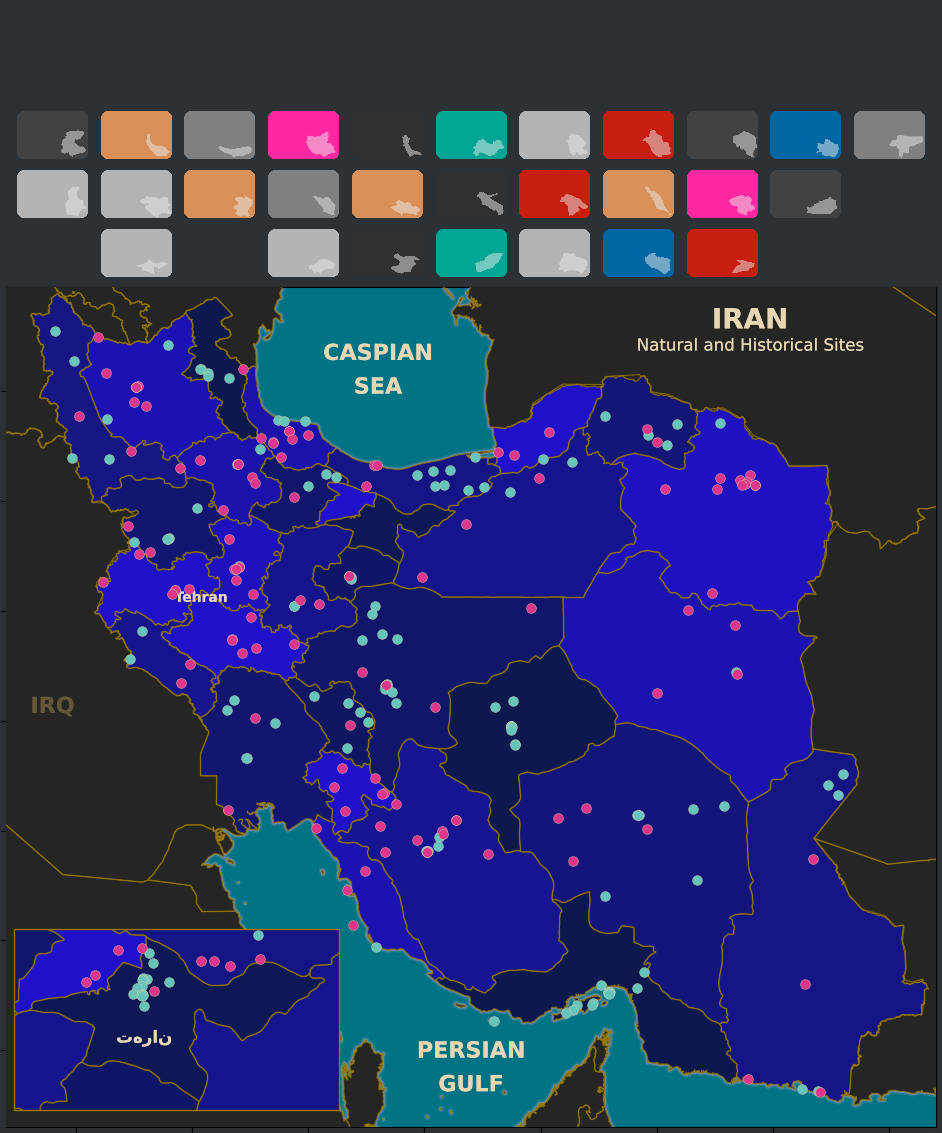
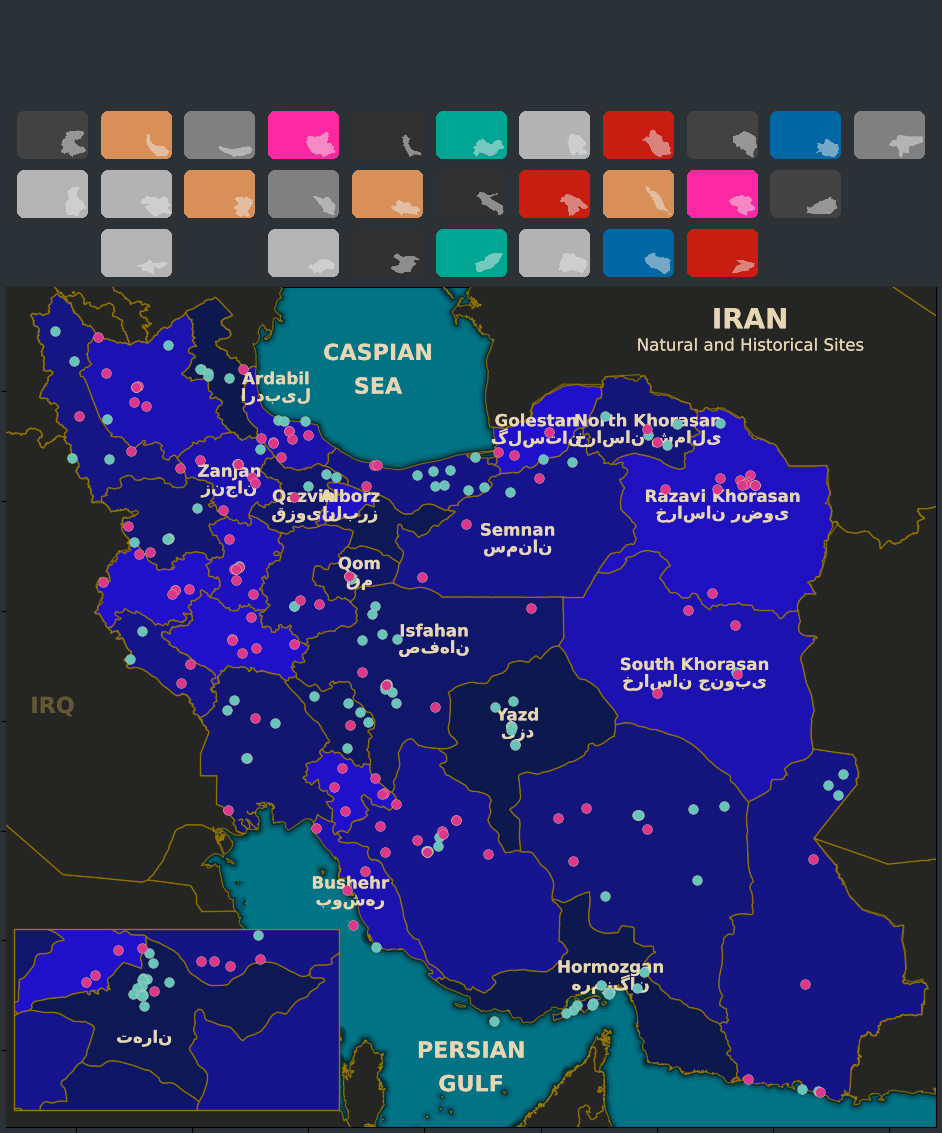
add locations

diff --git a/main.py b/main.py
@@ -15,7 +15,7 @@ from utils.file_utils import ensure_directory_exists
 # Map Directory
 # US NP | Germany | Europe | Iran |
 #  "us" |    "de" |   "eu" | "ir" |
-PATH = "de"
+PATH = "ir"
 
 small_map = True
 small_gif = False
